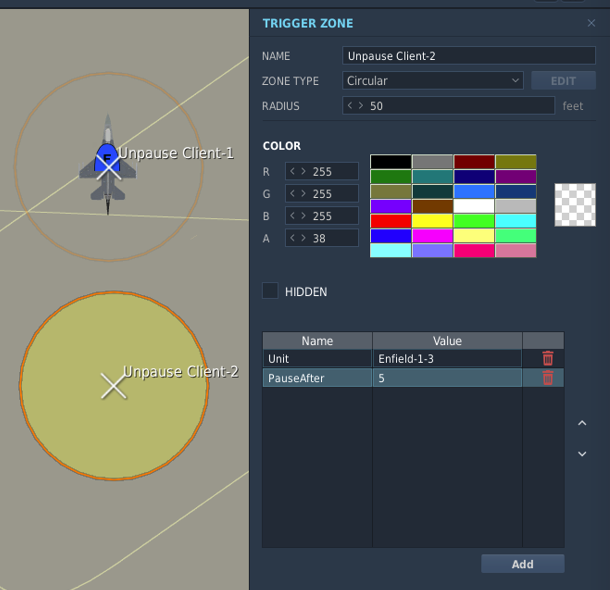
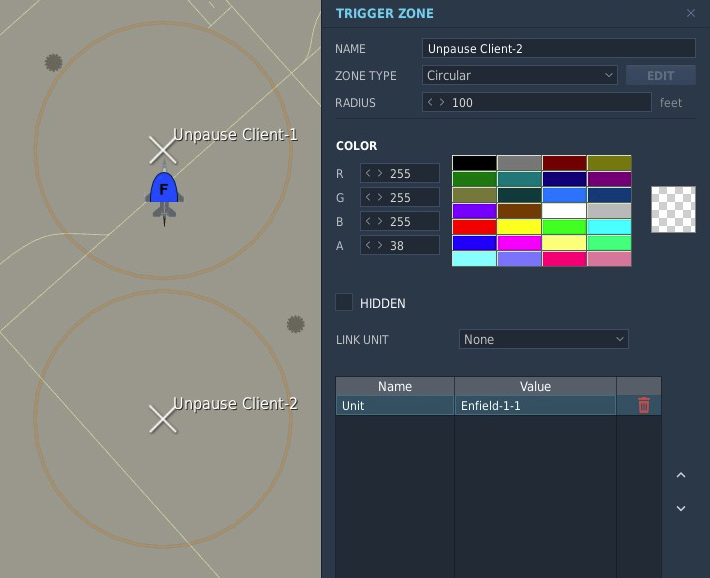
Version 20221211.1 (RC1)

diff --git a/51stMapSOP/readme.md b/51stMapSOP/readme.md
@@ -21,13 +21,19 @@
 
     ![Load MIST/Skynet Scripts with MISSION START Trigger](images/SKYNET-load.png)
 
-3. **(OPTIONAL)** By default, MapSOP will pause the server after 30 second of mission time (or after a period when no client units are alive), and unpause it when any client slots into an aircraft. 
+3. **(OPTIONAL)** By default, MapSOP will pause the server after 30 second of mission time if a client has not slotted into an aircraft (or after a period when no clients are connected), and unpause it when any client slots into an aircraft. 
+
+    To change the mission time at which the mission pauses, create a Trigger Zone called `MapSOP Settings` with a property called `PauseAfter` with the number of mission seconds at which the mission should pause. A `PauseAfter` value of `0` disables the pause.
+
+    The pause/unpause functionality is disabled when running locally in single-player mode.
+
+    ![A 'MapSOP Settings' zone with a 'Pause After' property to change the time that the mission will pause](images/MapSOP-Settings-Zone.png)
 
     Optionally, Trigger Zone(s) starting with `Unpause Client` can be created. An 'Unpause Client' zone created over a 'Client' aircraft unit(s) will cause the mission to only automatically unpause when an aircraft unit in such a Zone slots in. Instead of placing such a zone over a unit, a property called `Unit` can be created in an 'Unpause Client' zone with its value set to the name of an aircraft unit to trigger unpause when slotted. This is helpful for selecting individual units when units are stacked on top of each other, such as when onboard an aircraft carrier.
 
-    The property `PauseAfter` can also be added to an 'Unpause Client' Zone and given a number value. This will pause the server after the PauseAfter number of seconds instead of the default '30'. Setting a PauseAfter value of '0' will disable automatic mission pausing altogether.
+    This feature is meant to allow the mission to remain paused while the bulk of clients get slotted, and then unpause only when a certain client unit slots (presumably after confirming everybody else has slotted). Consider passwording the designated `Unpause Client` slot(s) to prevent premature mission unpause.
 
-    The pause/unpause functionality is disabled when running locally in single-player mode.
+    ***WARNING:*** If `Unpause Client` zone(s) are created and their are no client slot aircraft in any of the Zone(s) or valid client unit name(s) listed as a `Unit` property, then the only way to unpause the server will be from the server dashboard.   
     
     ![Optionally create zone(s) starting with 'Unpause Client'](images/Unpause-Client-Zones.png)
     
@@ -102,7 +108,7 @@
 
     ![Create Trigger Zones with Properties to change SOP Tanker/AWACS values](images/Zone-Props.png)
 
-    | **Parameter**           | **Zone Parameter**   | **Example Value** | **Effect**                                               |
+    | **Parameter**           | **Zone Parameter**   | **Example Value** | **Effect (of Property in a Texaco1-P1 zone)**            |
     |-------------------------|--------------|---------------------------|----------------------------------------------------------|
     | Flight SOP base template|Template      |***2***                    |Override all SOP values to those of Texaco***2***         |
     | Orbit Altitude          |Altitude      |***23000***                |Override Texaco1 orbit altitude to 23k feet               |
@@ -117,6 +123,7 @@
     | Make invisible to AI    |Invisible     |***true***                 |Makes Texaco1 invisible to the AI                         |
     | Limit available flights |Airframes     |***4***                    |Limits Texaco1 to ***4*** spawns during the mission       |
     | Initial ground start    |GroundStart   |***true***                 |Makes initial Texaco1 takeoff from support Airbase        |
+    | Non-initial air respawn |RespawnAir    |***true***                 |Makes Texaco1 relief flights respawn in the air           |
     | Push track at time      |PushTime      |***5:00***                 |Automatically push track five minutes after mission start |
     | Launch Default via menu |PushTime      |***0***                    |When set on Default track, only spawn on menu command     |
     * Setting the value **SOP** for any value will use the SOP value for the flight/template as if the property was not present.
@@ -250,9 +257,16 @@
 * Added declaration of multiple orbit tracks for each tanker/AWACs.
 * Added scheduled flight launches and orbit track changes.
 * F10 menu mission starts and track pushes.
+* Fixed F10 map unit callsign labels.
 * Deprecated 'zone name' SOP setting overrides in favor of Zone Properties.
 * Tested/included MOOSE version bump.
 * Added Mount Pleasant as default Support Base for South Atlantic map.
+
+*Version 20221211.1* 
+* New 'MapSOP Settings' zone with global MapSOP setting properties.
+* Moved 'PauseAfter' property from 'Unpause Client' zone(s) to 'MapSOP Settings'.
+* Added RespawnAir option for Tankers/AWACS relief flights to air spawn.
+* Added scripting only functions RemoveFlight() and ReAddFlight().
 
 ### Known issues:
 * A paused server will not unpause unless a client enters a (valid) aircraft slot.
